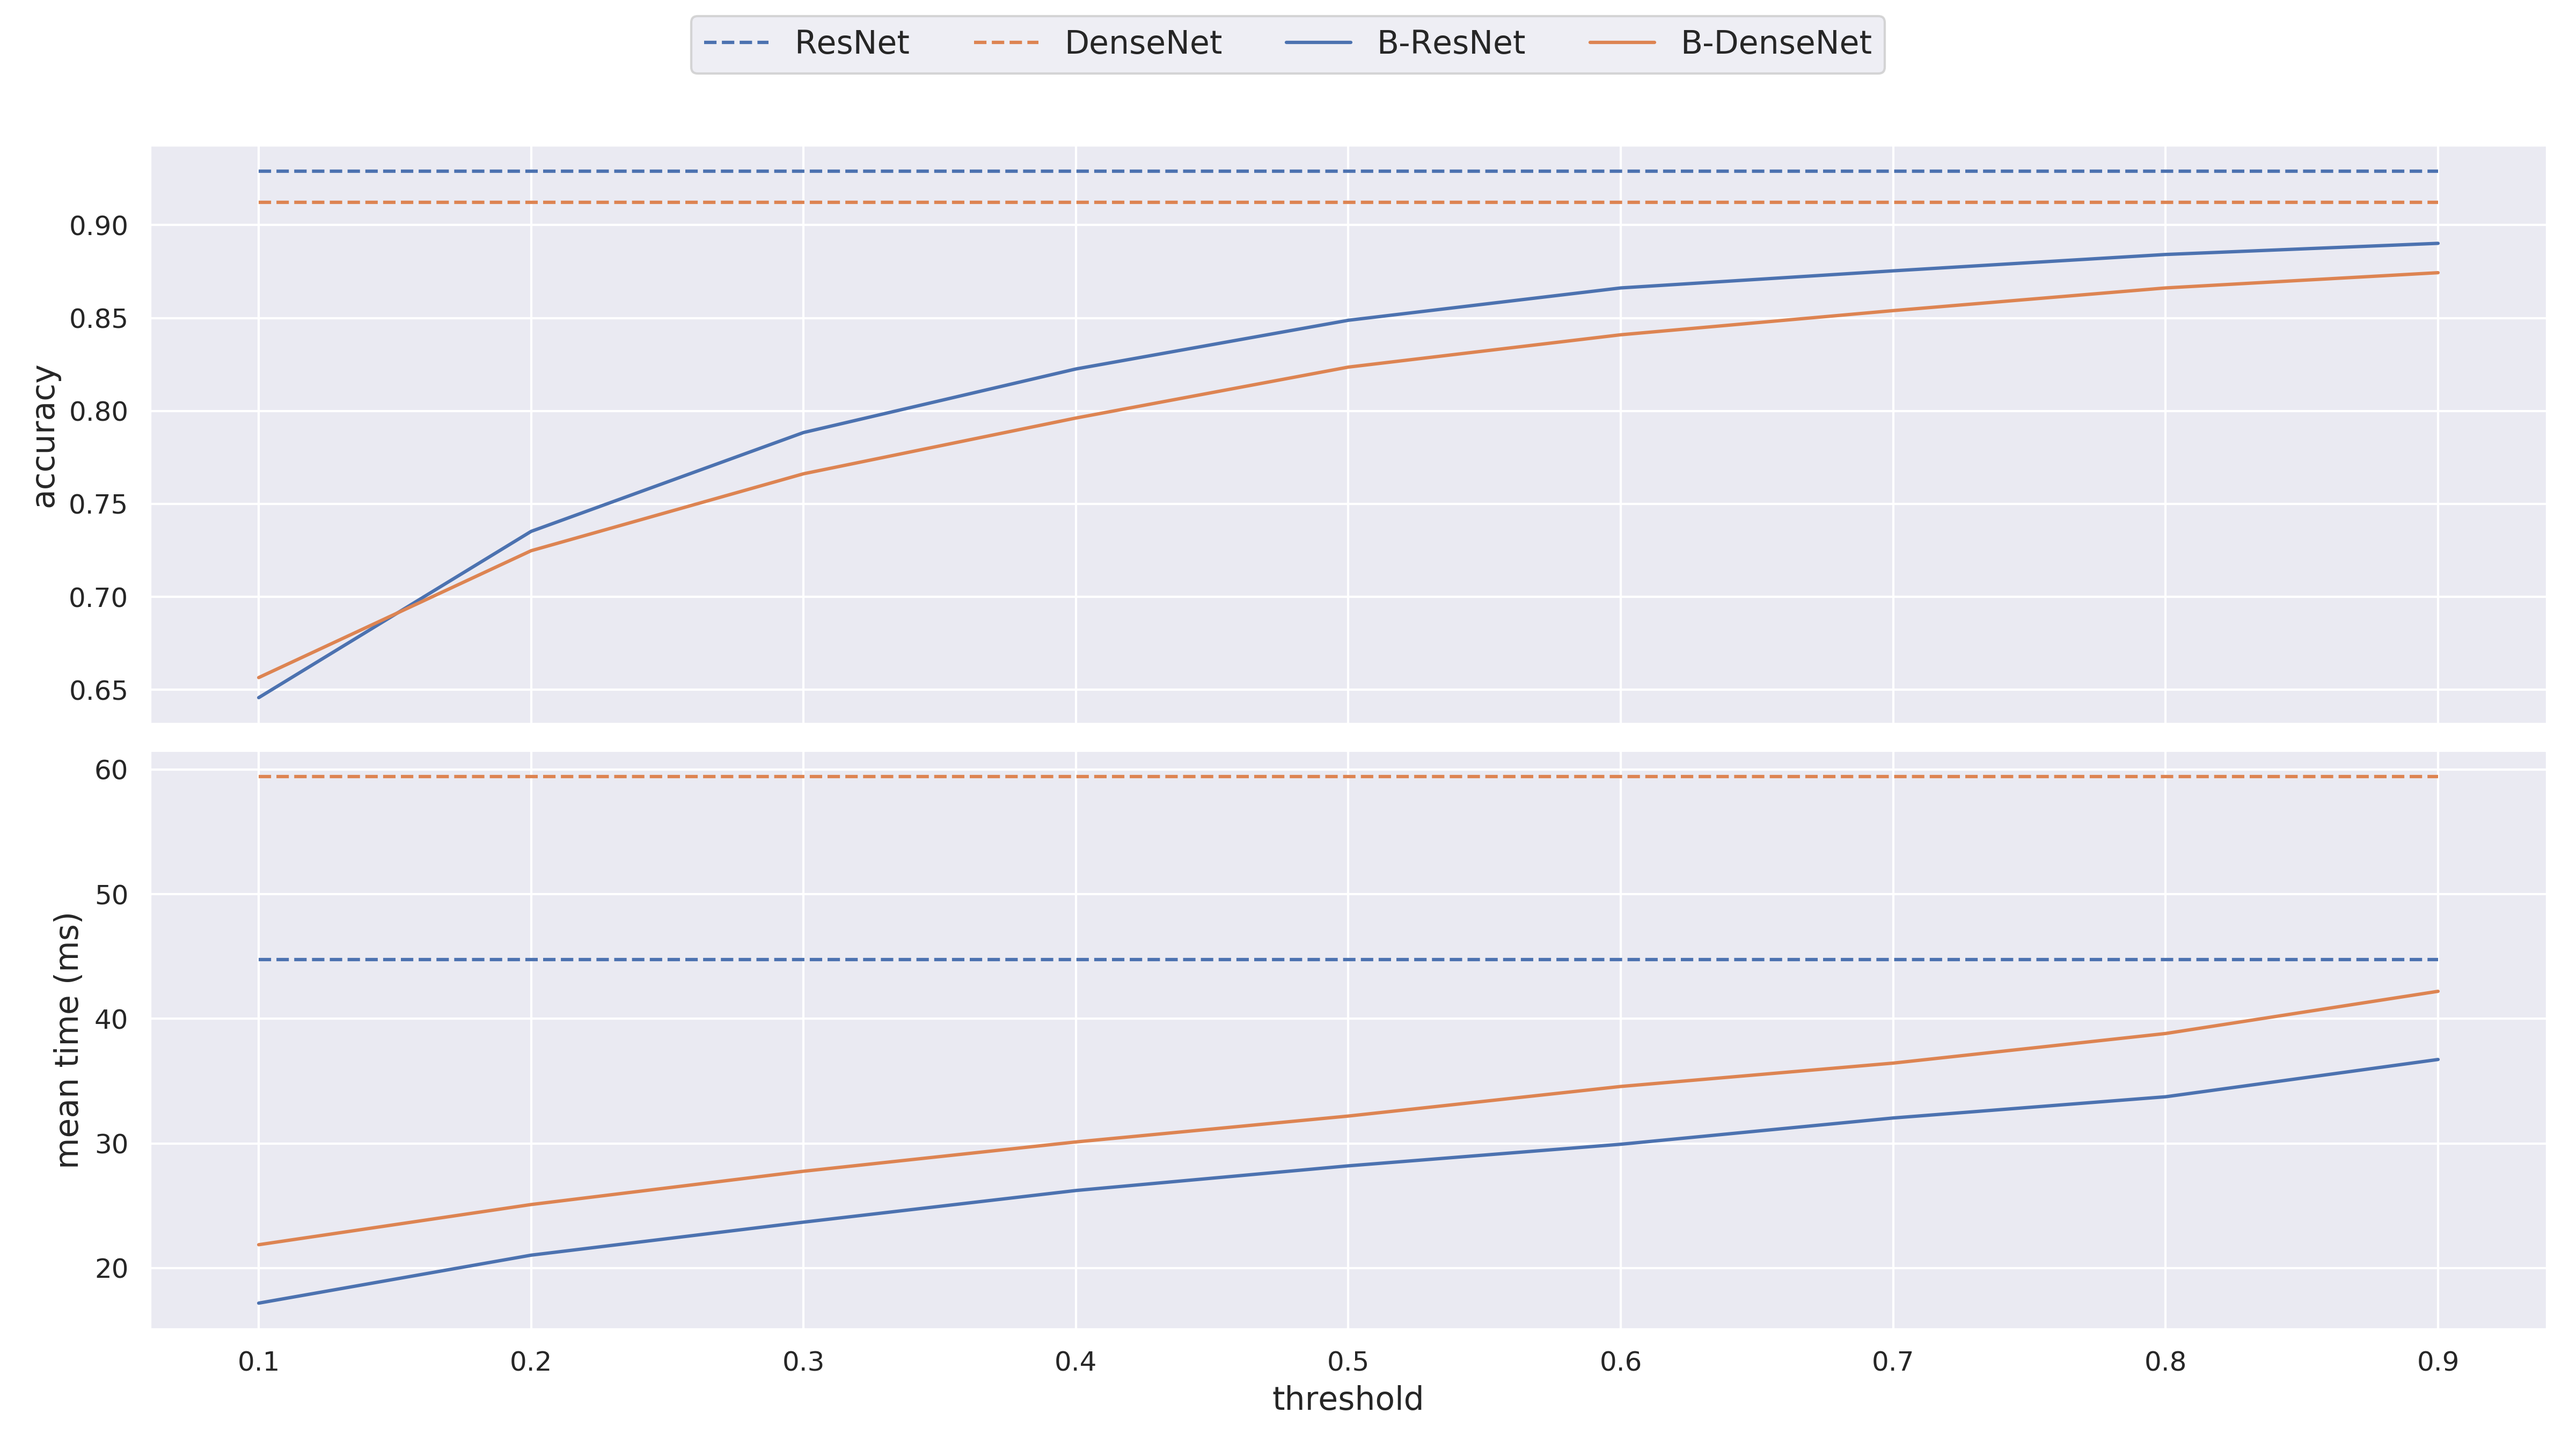
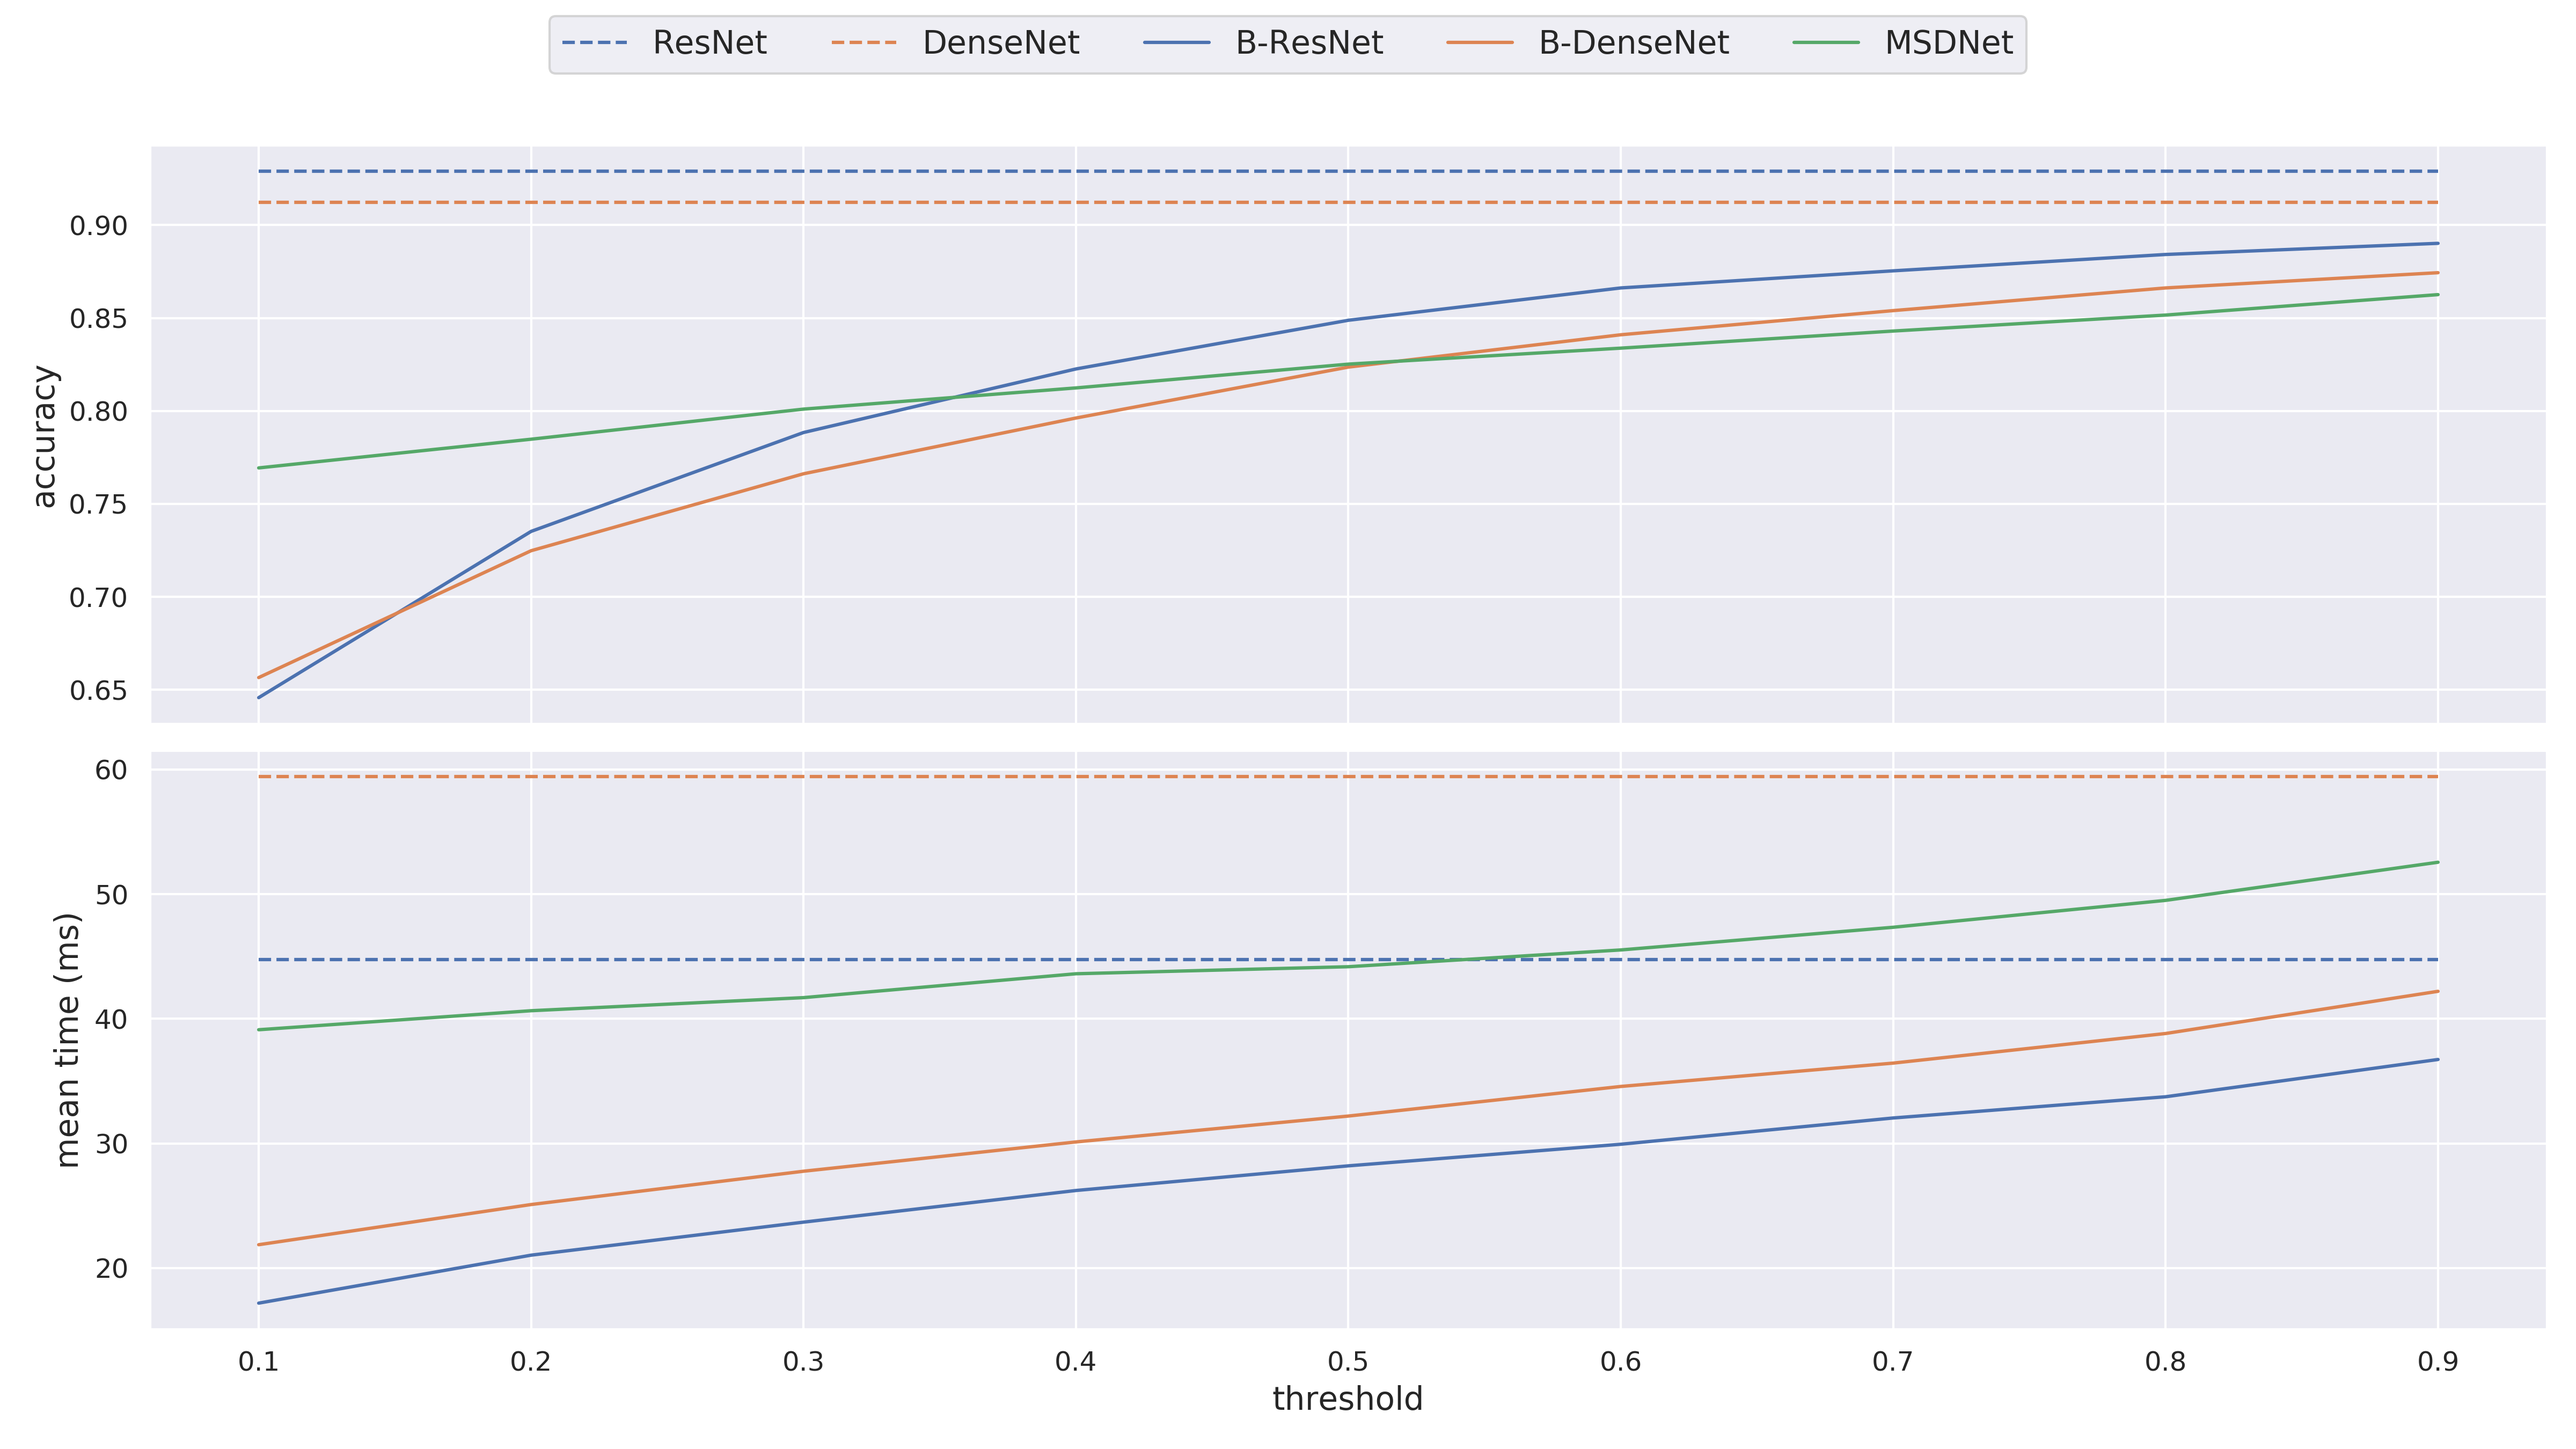
a new figure

Changed region(s): [[0.2188, 0.0, 0.7812, 0.0622]]

diff --git a/report/sections/Experiments.tex b/report/sections/Experiments.tex
@@ -27,7 +27,13 @@ The two last exits of \gls{resnet} are almost equally accurate. The resolution b
 	%\ContinuedFloat
 	\captionsetup[subfigure]{justification=centering}
 	\subfloat[B-DenseNet\label{fig:B-densenet-miniimagenet100}]{\includegraphics[width=\linewidth]{figures/training_plots/densenet_miniimagenet100}}
-	\caption[Training progress of BrancyNets]{Training progress for \protect\subref{fig:B-resnet-miniimagenet100} B-ResNet and \protect\subref{fig:B-densenet-miniimagenet100} B-DenseNet} 
+\end{figure}
+
+\begin{figure}
+	%\ContinuedFloat
+	\captionsetup[subfigure]{justification=centering}
+	\subfloat[MSDNet\label{fig:msdnet-miniimagenet100}]{\includegraphics[width=\linewidth]{figures/training_plots/msd_miniimagenet100}}
+	\caption[Training progress of BrancyNets]{Training progress for \protect\subref{fig:B-resnet-miniimagenet100} B-ResNet, \protect\subref{fig:B-densenet-miniimagenet100} B-DenseNet and \protect\subref{fig:msdnet-miniimagenet100} MSDNet} 
 	\label{fig:b-net-miniimagenet-100}
 \end{figure}
 
@@ -60,22 +66,113 @@ The two last exits of \gls{resnet} are almost equally accurate. The resolution b
 
 \section{Threshold Analysis}
 
-In this experiment the MiniImageNet100 validation set have been used to evaluate the two threshold metrics; \emph{Confidence Threshold} and \emph{Score-Margin Threshold}. Figure \ref{fig:thresholds} compares the performance of each exit on all samples.
+In this experiment the MiniImageNet100 validation set have been used to evaluate the two threshold metrics; \emph{Confidence Threshold} and \emph{Score-Margin Threshold}. \Cref{fig:resnet_confidence,fig:resnet_score-margin,fig:densenet_confidence,fig:densenet_score-margin,fig:msdnet_confidence,fig:msdnet_score-margin} compares the performance of each exit on all samples.
 
+\newcounter{imagenumber}
+\begin{minipage}{\textwidth}
 \begin{figure}
-	\captionsetup[subfigure]{justification=centering}
 	\centering
-	\subfloat[ResNet\label{fig:threshold_resnet}]{\includegraphics[width=\linewidth]{figures/threshold_plots/threshold_analysis_resnet101}}
+	\paragraph{B-ResNet}
+	\includegraphics[width=\linewidth]{figures/threshold_plots/threshold_analysis_legend}
+\end{figure}
 
-\end{figure}
-\begin{figure}
-	\captionsetup[subfigure]{justification=centering}
-	\centering
-%	\subfloat[ResNet\label{fig:threshold_resnet}]{\includegraphics[width=.8\linewidth]{figures/threshold_plots/threshold_analysis_resnet101}}
-	\subfloat[DenseNet\label{fig:threshold_densenet}]{\includegraphics[width=\linewidth]{figures/threshold_plots/threshold_analysis_densenet100}}
-	\caption[Threshold Comparison]{Threshold comparison of confidence threshold and score margin threshold.}
-	\label{fig:thresholds}
-\end{figure}
+\begin{minipage}{0.5\textwidth}
+	\begin{figure}
+		\captionsetup[subfloat]{farskip=1pt,captionskip=1pt, justification=centering}
+		\centering
+		\forloop{imagenumber}{0}{\value{imagenumber} < 4}{
+			
+			\subfloat[Exit-\arabic{imagenumber}\label{fig:confidence_resnet_exit_\arabic{imagenumber}}]{\includegraphics[width=.9\linewidth]{figures/threshold_plots/threshold_analysis_b-resnet_confidence_\arabic{imagenumber}}}
+			\hfill
+		}
+		\caption[ResNet Confidence Threshold]{Confidence Threshold}
+		\label{fig:resnet_confidence}
+	\end{figure}
+\end{minipage}
+\begin{minipage}{0.5\textwidth}
+	\begin{figure}
+		\captionsetup[subfloat]{farskip=1pt,captionskip=1pt, justification=centering}
+		\centering
+		\forloop{imagenumber}{0}{\value{imagenumber} < 4}{
+			
+			\subfloat[Exit-\arabic{imagenumber}\label{fig:score-margin_resnet_exit_\arabic{imagenumber}}]{\includegraphics[width=.9\linewidth]{figures/threshold_plots/threshold_analysis_b-resnet_score-margin_\arabic{imagenumber}}}
+			\hfill
+		}
+		\caption[ResNet Score-margin Threshold]{Score-margin Threshold}
+		\label{fig:resnet_score-margin}
+	\end{figure}
+\end{minipage}
+\end{minipage}
+
+\begin{minipage}{\textwidth}
+	\begin{figure}
+		\centering
+		\paragraph{B-DenseNet}
+	\end{figure}
+	\begin{minipage}{0.5\textwidth}
+		\begin{figure}
+			\captionsetup[subfloat]{farskip=1pt,captionskip=1pt, justification=centering}
+			\centering
+			\forloop{imagenumber}{0}{\value{imagenumber} < 4}{
+				
+				\subfloat[Exit-\arabic{imagenumber}\label{fig:confidence_dense_exit_\arabic{imagenumber}}]{\includegraphics[width=.9\linewidth]{figures/threshold_plots/threshold_analysis_b-densenet_confidence_\arabic{imagenumber}}}
+				\hfill
+			}
+			\caption[DenseNet Confidence Threshold]{Confidence Threshold}
+			\label{fig:densenet_confidence}
+		\end{figure}
+	\end{minipage}
+	\begin{minipage}{0.5\textwidth}
+		\begin{figure}
+			\captionsetup[subfloat]{farskip=1pt,captionskip=1pt, justification=centering}
+			\centering
+			\forloop{imagenumber}{0}{\value{imagenumber} < 4}{
+				
+				\subfloat[Exit-\arabic{imagenumber}\label{fig:score-dense_resnet_exit_\arabic{imagenumber}}]{\includegraphics[width=.9\linewidth]{figures/threshold_plots/threshold_analysis_b-densenet_score-margin_\arabic{imagenumber}}}
+				\hfill
+			}
+			\caption[DenseNet Score-margin Threshold]{Score-margin Threshold}
+			\label{fig:densenet_score-margin}
+		\end{figure}
+	\end{minipage}
+\end{minipage}
+
+\noindent\makebox[\textwidth][c]{\begin{minipage}{0.9\textwidth}
+	\begingroup
+	\leftskip=0cm plus 0.5fil \rightskip=0cm plus -0.5fil
+	\parfillskip=0cm plus 1fil
+	\paragraph{MSDNet}\par
+	\endgroup
+	
+	\begin{minipage}{0.5\textwidth}
+		\begin{figure}
+			\captionsetup[subfloat]{farskip=0pt,captionskip=0pt, justification=centering}
+			\centering
+			\forloop{imagenumber}{0}{\value{imagenumber} < 5}{
+				
+				\subfloat[Exit-\arabic{imagenumber}\label{fig:confidence_msd_exit_\arabic{imagenumber}}]{\includegraphics[width=.9\linewidth]{figures/threshold_plots/threshold_analysis_msdnet_confidence_\arabic{imagenumber}}}
+				\hfill
+			}
+			\caption[MSDNet Confidence Threshold]{Confidence Threshold}
+			\label{fig:msdnet_confidence}
+		\end{figure}
+	\end{minipage}
+	\begin{minipage}{0.5\textwidth}
+		\begin{figure}
+			\captionsetup[subfloat]{farskip=1pt,captionskip=1pt, justification=centering}
+			\centering
+			\forloop{imagenumber}{0}{\value{imagenumber} < 5}{
+				
+				\subfloat[Exit-\arabic{imagenumber}\label{fig:score-msdnet_exit_\arabic{imagenumber}}]{\includegraphics[width=.9\linewidth]{figures/threshold_plots/threshold_analysis_msdnet_score-margin_\arabic{imagenumber}}}
+				\hfill
+			}
+			\caption[MSDNet Score-margin Threshold]{Score-margin Threshold}
+			\label{fig:msdnet_score-margin}
+		\end{figure}
+	\end{minipage}
+\end{minipage}}
+
+\ref{fig:}
 
 The \emph{score-margin} has more desirable traits, as less samples are incorrectly exited at lower threshold, only at the expense of a few additional samples not exited. Thus more suitable for application, that can slack a bit on accuracy to meet a latency constraint. Henceforth the \emph{score-margin} threshold are used.
 

diff --git a/report/_tex/preamble.tex b/report/_tex/preamble.tex
@@ -72,6 +72,9 @@
 \setlength{\parskip}{6pt plus 2pt minus 1pt}
 }
 
+\usepackage{forloop}
+
+
 
 \usepackage{ragged2e}
 \usepackage{todonotes}
@@ -105,7 +108,7 @@
 \usepackage{longtable,tabu}
 \usepackage{multirow}
 
-
+\usepackage{cleveref}
 \usepackage{tocbasic}
 %\addtotoclist[master-thesis.cls]{toc}
 \renewcommand*{\tableofcontents}{\listoftoc[{\contentsname}]{toc}}% ToC under control of tocbasic
